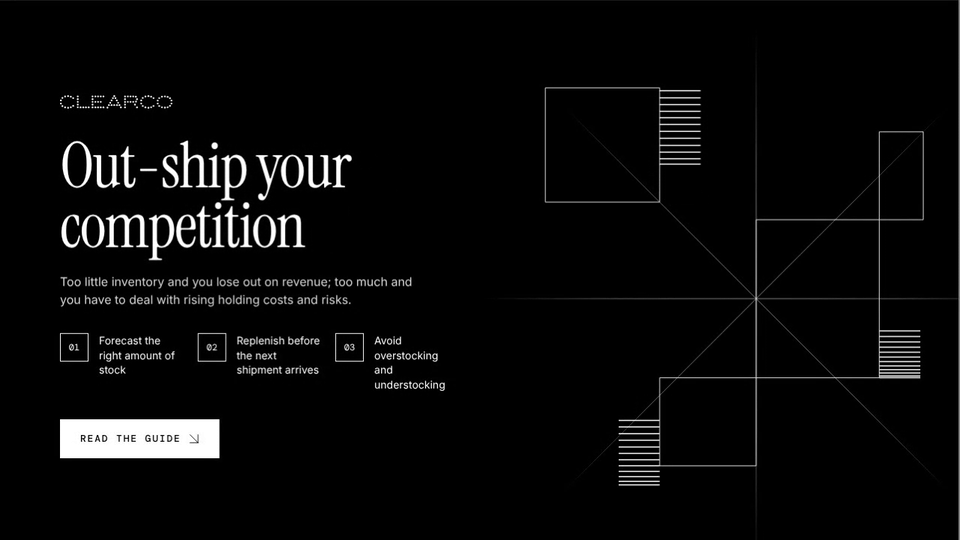
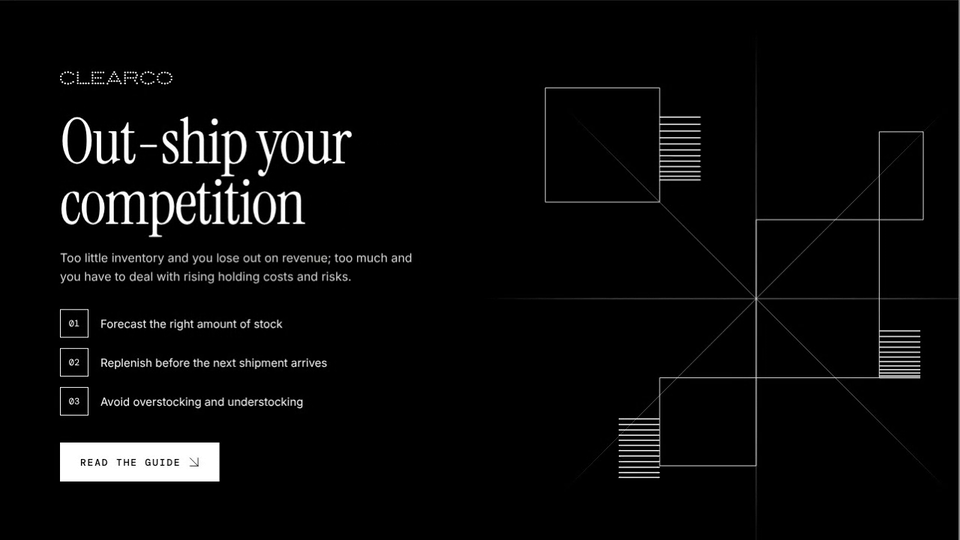
Clearco Logistics Guide: hero points stacked in one column so they no longer break awkwardly; re-record clip (#100)
Claude-Session: https://claude.ai/code/session_01AHeBdwjGFXBCupAH8deQwB

Changed region(s): [[0.0625, 0.1185, 0.4688, 0.9185], [0.6875, 0.1481, 0.75, 0.3556], [0.625, 0.7704, 0.6875, 0.9185]]

diff --git a/clearco-logistics-guide/index.html b/clearco-logistics-guide/index.html
@@ -53,15 +53,14 @@ section{padding-block:clamp(18px,2.5vw,32px)}
 .hero .mono{color:#9d9c97}
 .hero h1{font:400 clamp(48px,6.6vw,92px)/.95 var(--serif);letter-spacing:-.02em;margin:28px 0 22px;max-width:11ch}
 .hero .lede{font:400 16px/1.55 var(--sans);max-width:30em;margin:0 0 32px;color:#d9d8d4}
-.points{list-style:none;padding:0;display:grid;grid-template-columns:repeat(3,1fr);gap:20px;margin:0 0 36px}
-.points li{display:flex;gap:14px;align-items:flex-start;font-size:14px;line-height:1.4}
+.points{list-style:none;padding:0;display:grid;grid-template-columns:1fr;gap:14px;margin:0 0 36px}
+.points li{display:flex;gap:16px;align-items:center;font-size:15px;line-height:1.4}
 .points i{flex:none;width:38px;height:38px;border:1px solid #fff;display:grid;place-items:center;font:400 12px/1 var(--mono);font-style:normal}
 .vis{width:calc(100% + 72px);margin:0 -72px 0 0}
 .vis svg{width:100%;height:auto;display:block;overflow:visible}
 .vis .blk *{vector-effect:non-scaling-stroke}
 /* the stacks of fine lines are drawn by script, with the same motion as the banner stacks */
 .vis .st line{vector-effect:non-scaling-stroke}
-@media (max-width:900px){.points{grid-template-columns:1fr}}
 @media (max-width:820px){.hero .wrap{grid-template-columns:1fr}.vis{width:min(460px,100%);margin:0 auto}}
 
 /* ---------- animated grid backgrounds ---------- */
